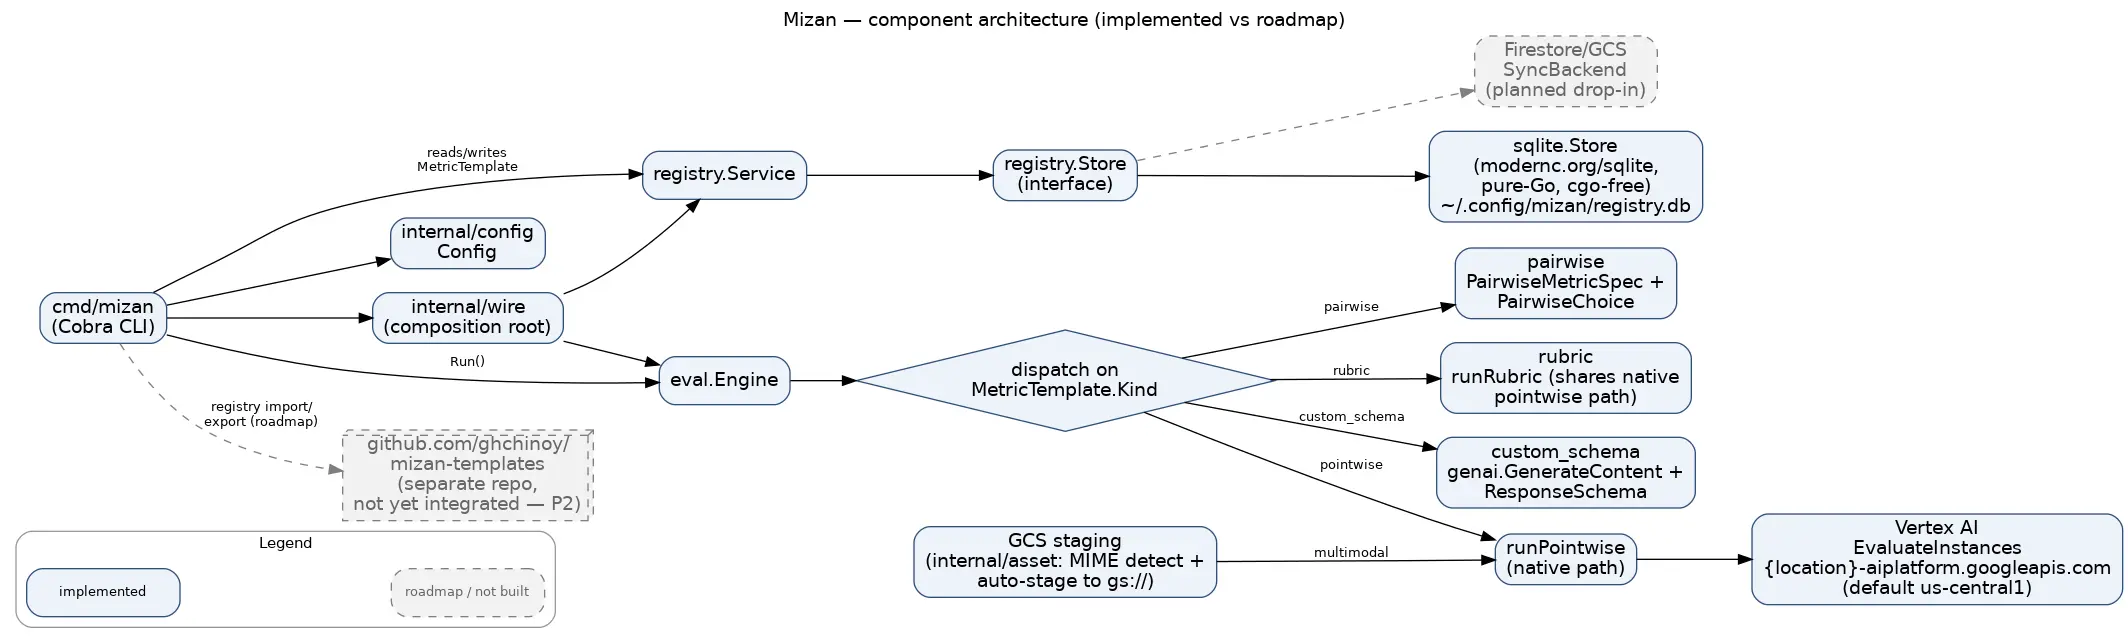
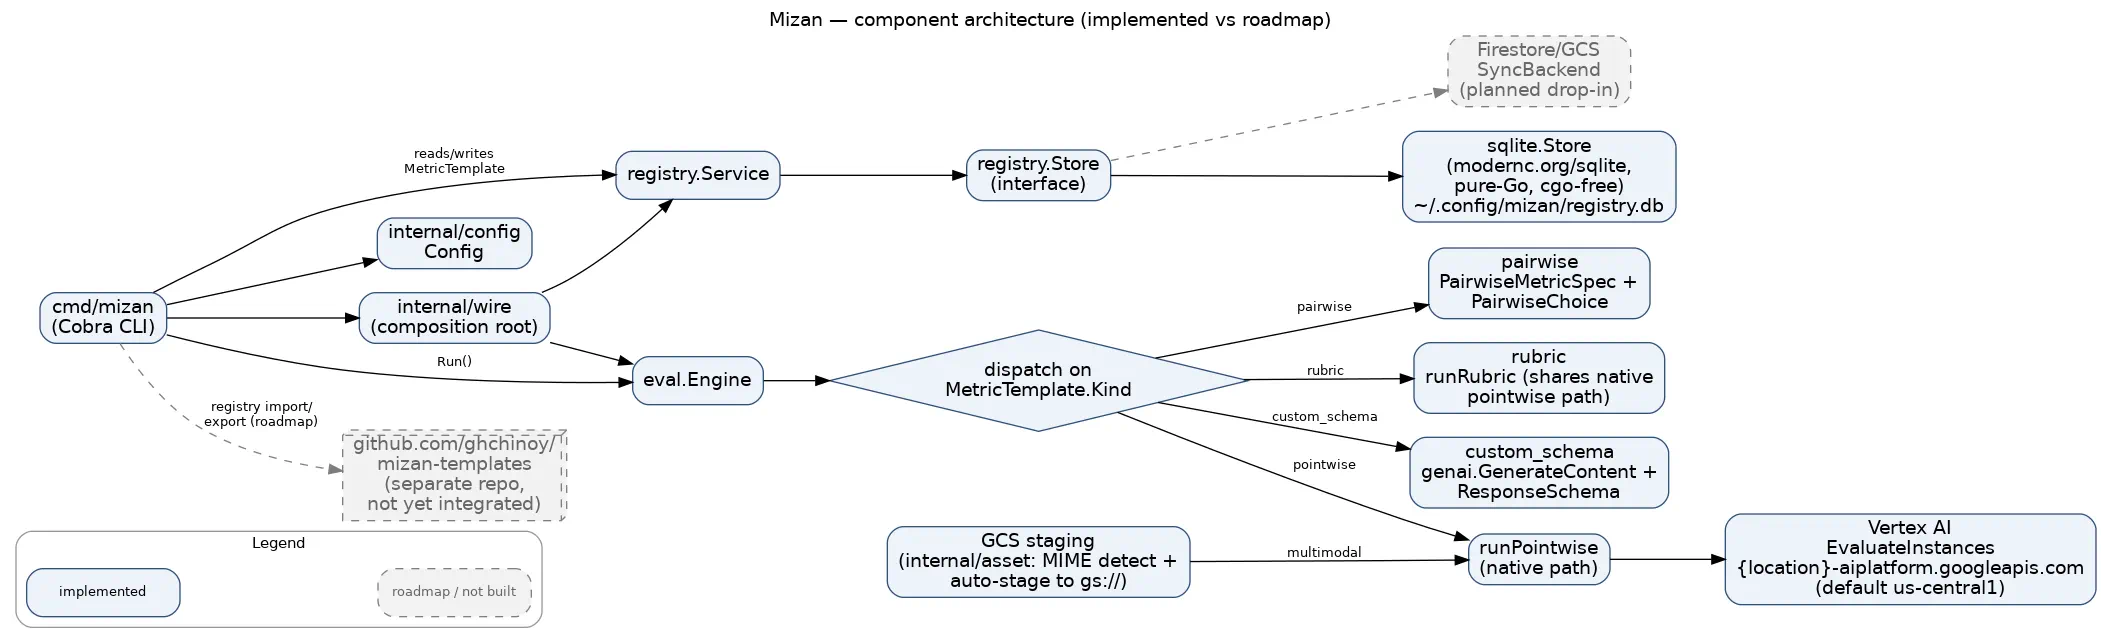
chore(diagram): drop baked P2 phase token; phase-free alt text
- component-architecture.dot: templates_repo label 'not yet integrated — P2'
  -> 'not yet integrated' (node stays dashed/grey — still unbuilt)
- regenerate component-architecture.webp via graphviz dot -Twebp (no P2 rendered)
- README.md / docs/architecture-final.md: reword diagram alt text to phase-free
  ('planned / not-built paths dashed', 'shown dashed as not-yet-built')

diff --git a/docs/architecture-final.md b/docs/architecture-final.md
@@ -144,7 +144,7 @@ Firestore/GCS `SyncBackend` (still a planned drop-in, not built) and the
 external `mizan-templates` repo integration (`registry import|export`/`pack`
 still don't exist in this binary — P2):
 
-![Mizan component architecture diagram showing cmd/mizan composed via internal/wire over registry.Service and eval.Engine, with the sqlite.Store implementation and all four metric-kind dispatch paths (pointwise, rubric, custom_schema, pairwise) plus GCS staging shown solid, and only the Firestore SyncBackend and the mizan-templates repo shown dashed as roadmap](diagrams/component-architecture.webp)
+![Mizan component architecture diagram showing cmd/mizan composed via internal/wire over registry.Service and eval.Engine, with the sqlite.Store implementation and all four metric-kind dispatch paths (pointwise, rubric, custom_schema, pairwise) plus GCS staging shown solid, and only the Firestore SyncBackend and the mizan-templates repo shown dashed as not-yet-built](diagrams/component-architecture.webp)
 
 ---
 

diff --git a/README.md b/README.md
@@ -105,7 +105,7 @@ sync/codec layers, or the Vertex AI proto types directly. See
 including this component diagram distinguishing implemented paths from planned
 ones (see [`docs/roadmap.md`](docs/roadmap.md)):
 
-![Mizan component architecture: cmd/mizan through wire to registry.Service and eval.Engine, with implemented paths solid and roadmap paths dashed](docs/diagrams/component-architecture.webp)
+![Mizan component architecture: cmd/mizan through wire to registry.Service and eval.Engine, with implemented paths solid and planned / not-built paths dashed](docs/diagrams/component-architecture.webp)
 
 ## Documentation
 
